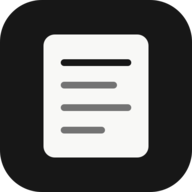
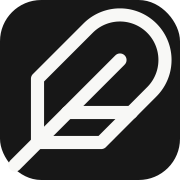
Add files via upload

diff --git a/src/styles/responsive.css b/src/styles/responsive.css
@@ -193,11 +193,21 @@
     box-shadow: none;
   }
   .markdown-editor { width: 100%; min-height: calc(100dvh - 310px); }
-  .control-strip { width: calc(100% - 20px); justify-content: space-between; }
-  .control-button { min-width: 44px; padding: 0 7px; }
+  .control-strip { width: calc(100% - 20px); justify-content: space-between; padding: 6px; }
+  .control-button { min-width: 52px; height: 52px; padding: 0 8px; font-size: 22px; }
+  .control-button.control-aa { font-size: 18px; }
+  .control-button.control-more { font-size: 20px; }
   .library-inner, .trash-inner { width: calc(100% - 28px); padding-top: calc(18px + env(safe-area-inset-top)); }
-  .library-row { grid-template-columns: minmax(0, 1fr) auto; column-gap: 10px; padding: 15px 1px 14px; }
-  .library-modified { font-size: 9px; }
+  .segmented { padding: 4px; }
+  .segmented button { min-height: 42px; padding: 0 12px; font-size: 18px; }
+  .library-row { grid-template-columns: minmax(0, 1fr) auto; column-gap: 10px; row-gap: 7px; padding: 19px 2px 18px; }
+  .library-title { font-size: 18px; line-height: 1.3; }
+  .library-preview { font-size: 16px; line-height: 1.45; }
+  .library-tags .tag-chip { min-height: 29px; padding: 4px 10px; font-size: 15px; }
+  .library-modified { font-size: 14px; }
+  .library-star { font-size: 15px; }
+  .tag-filter-title { font-size: 17px; }
+  .search-input { height: 46px; font-size: 16px; }
   .sheet-backdrop { padding: 0; align-items: end; }
   .sheet { width: 100%; max-height: 78dvh; border-radius: 18px 18px 0 0; border-left: 0; border-right: 0; border-bottom: 0; }
   .font-grid { grid-template-columns: 1fr; }

diff --git a/src/styles/app.css b/src/styles/app.css
@@ -260,11 +260,18 @@ button:focus-visible, input:focus-visible, select:focus-visible {
 .editor-line-text.is-editing { color: var(--text); }
 .bullet-marker { color: var(--faint); text-align: center; user-select: none; }
 .editor-line--bullet:focus-within .bullet-marker { visibility: hidden; }
+.todo-check-slot {
+  width: 25px;
+  height: calc(var(--editor-size) * 1.66);
+  display: flex;
+  align-items: center;
+  justify-content: center;
+}
 .todo-check {
   appearance: none;
   width: 17px;
   height: 17px;
-  margin: .31em 0 0;
+  margin: 0;
   border: 1.25px solid var(--muted);
   border-radius: 4px;
   background: transparent;
@@ -638,6 +645,18 @@ button:focus-visible, input:focus-visible, select:focus-visible {
 }
 .shortcut-restore { margin-top: 4px; color: var(--muted); }
 
+.brand-lockup {
+  display: inline-flex;
+  align-items: center;
+  gap: 8px;
+}
+.brand-feather {
+  width: 18px;
+  height: 18px;
+  display: block;
+  flex: 0 0 auto;
+}
+
 /* Authentication */
 .auth-screen {
   min-height: 100dvh;
@@ -656,6 +675,7 @@ button:focus-visible, input:focus-visible, select:focus-visible {
   box-shadow: var(--paper-shadow);
 }
 .auth-wordmark { font: 600 15px/1 var(--ui-font); letter-spacing: .01em; margin-bottom: 44px; }
+.auth-wordmark .brand-feather { width: 20px; height: 20px; }
 .auth-title { margin: 0 0 10px; font: 600 24px/1.2 var(--ui-font); }
 .auth-copy { margin: 0 0 24px; color: var(--muted); font: 400 14px/1.55 var(--ui-font); }
 .auth-form { display: grid; gap: 12px; }

diff --git a/tests/unit/desktopWorkspaceStyles.test.js b/tests/unit/desktopWorkspaceStyles.test.js
@@ -124,3 +124,13 @@ test('metadata controls avoid native browser title tooltips', () => {
   assert.ok(metaBlock, 'metadata strip markup is present');
   assert.doesNotMatch(metaBlock[0], /title=/);
 });
+
+test('Revision 1 gives iPhone library and toolbar typography true mobile sizes', () => {
+  assert.match(responsive, /@media \(max-width: 719px\)[\s\S]*?\.segmented button\s*\{[^}]*min-height:\s*42px[^}]*font-size:\s*18px/);
+  assert.match(responsive, /@media \(max-width: 719px\)[\s\S]*?\.library-title\s*\{[^}]*font-size:\s*18px/);
+  assert.match(responsive, /@media \(max-width: 719px\)[\s\S]*?\.library-preview\s*\{[^}]*font-size:\s*16px/);
+  assert.match(responsive, /@media \(max-width: 719px\)[\s\S]*?\.library-tags \.tag-chip\s*\{[^}]*font-size:\s*15px/);
+  assert.match(responsive, /@media \(max-width: 719px\)[\s\S]*?\.library-modified\s*\{[^}]*font-size:\s*14px/);
+  assert.match(responsive, /@media \(max-width: 719px\)[\s\S]*?\.control-button\s*\{[^}]*min-width:\s*52px[^}]*height:\s*52px[^}]*font-size:\s*22px/);
+  assert.match(responsive, /@media \(max-width: 719px\)[\s\S]*?\.control-button\.control-aa\s*\{[^}]*font-size:\s*18px/);
+});

diff --git a/src/ui/editorView.js b/src/ui/editorView.js
@@ -1,6 +1,7 @@
 import { mountMarkdownEditor } from '../editor/markdownEditor.js';
 import { makeLibraryItem } from '../domain/libraryItem.js';
 import { EDITOR_FONTS } from './appearanceSheet.js';
+import { featherIconMarkup } from './brandIcon.js';
 
 function renderTags(container, tags = []) {
   container.replaceChildren(...tags.map(tag => {
@@ -72,7 +73,7 @@ export function renderEditorView(root, {
     <main class="editor-screen desktop-workspace${sidebarCollapsed ? ' is-sidebar-collapsed' : ''}" data-testid="editor-screen">
       <aside class="desktop-sidebar" aria-label="Snippets">
         <div class="desktop-sidebar-head">
-          <span>Snippets</span>
+          <span class="brand-lockup">${featherIconMarkup('brand-feather')}<span>Snippets</span></span>
           <button class="quiet-button desktop-new-button" data-action="new-sidebar" aria-label="New snippet" title="New snippet">＋</button>
         </div>
         <div class="desktop-sidebar-list"></div>

diff --git a/tests/unit/editorSurfaceStyles.test.js b/tests/unit/editorSurfaceStyles.test.js
@@ -20,3 +20,12 @@ test('completed todo remains struck through while its text has focus', () => {
   assert.ok(match, 'editing rule exists');
   assert.doesNotMatch(match[1], /text-decoration\s*:\s*none/);
 });
+
+test('todo checkbox is vertically centered against the first text line box', () => {
+  const editorSource = fs.readFileSync(new URL('../../src/editor/markdownEditor.js', import.meta.url), 'utf8');
+  assert.match(editorSource, /className\s*=\s*['"]todo-check-slot['"]/);
+  assert.match(css, /\.todo-check-slot\s*\{[\s\S]*?height:\s*calc\(var\(--editor-size\)\s*\*\s*1\.66\)[\s\S]*?display:\s*flex[\s\S]*?align-items:\s*center/);
+  const checkboxRule = css.match(/\.todo-check\s*\{([^}]*)\}/);
+  assert.ok(checkboxRule, 'todo checkbox rule exists');
+  assert.match(checkboxRule[1], /margin:\s*0/);
+});

diff --git a/tests/unit/productionAssets.test.js b/tests/unit/productionAssets.test.js
@@ -28,3 +28,15 @@ test('build copies production root assets and retains Supabase CDN import in sta
   assert.match(build, /bookmarklets\.html/);
   assert.match(build, /cdn\.jsdelivr\.net\/npm\/@supabase\/supabase-js@2/);
 });
+
+test('Revision 1 uses the Lucide Feather mark for app branding and install icons', async () => {
+  const icon = await text('assets/icon.svg');
+  const editor = await text('src/ui/editorView.js');
+  const auth = await text('src/auth/authView.js');
+  const brand = await text('src/ui/brandIcon.js');
+  assert.match(icon, /M20\.24 12\.24a6 6 0 0 0-8\.49-8\.49L5 10\.5V19h8\.5z/);
+  assert.match(icon, /x1="16"[^>]*x2="2"[^>]*y1="8"[^>]*y2="22"/);
+  assert.match(brand, /featherIconMarkup/);
+  assert.match(editor, /featherIconMarkup/);
+  assert.match(auth, /featherIconMarkup/);
+});

diff --git a/src/auth/authView.js b/src/auth/authView.js
@@ -1,3 +1,5 @@
+import { featherIconMarkup } from '../ui/brandIcon.js';
+
 function element(tag, className, text = '') {
   const node = document.createElement(tag);
   if (className) node.className = className;
@@ -15,7 +17,9 @@ export function renderAuthView(root, { onRequestCode, onVerify } = {}) {
     root.replaceChildren();
     const main = element('main', 'auth-screen');
     const panel = element('section', 'auth-panel');
-    panel.append(element('div', 'auth-wordmark', 'Snippets'));
+    const wordmark = element('div', 'auth-wordmark brand-lockup');
+    wordmark.innerHTML = `${featherIconMarkup('brand-feather')}<span>Snippets</span>`;
+    panel.append(wordmark);
 
     const title = element('h1', 'auth-title', mode === 'email' ? 'Sign in' : 'Check your email');
     panel.append(title);

diff --git a/src/editor/markdownEditor.js b/src/editor/markdownEditor.js
@@ -114,7 +114,10 @@ export function mountMarkdownEditor(host, { value = '', onChange = () => {}, fon
         render();
         notify();
       });
-      row.append(checkbox);
+      const checkSlot = document.createElement('span');
+      checkSlot.className = 'todo-check-slot';
+      checkSlot.append(checkbox);
+      row.append(checkSlot);
     } else if (display.type === 'bullet') {
       const bullet = document.createElement('span');
       bullet.className = 'bullet-marker';

diff --git a/src/ui/brandIcon.js b/src/ui/brandIcon.js
@@ -1,0 +1,3 @@
+export function featherIconMarkup(className = 'brand-feather') {
+  return `<svg class="${className}" viewBox="0 0 24 24" fill="none" stroke="currentColor" stroke-width="2" stroke-linecap="round" stroke-linejoin="round" aria-hidden="true" focusable="false"><path d="M20.24 12.24a6 6 0 0 0-8.49-8.49L5 10.5V19h8.5z"></path><line x1="16" x2="2" y1="8" y2="22"></line><line x1="17.5" x2="9" y1="15" y2="15"></line></svg>`;
+}

diff --git a/sw.js b/sw.js
@@ -1,4 +1,4 @@
-const CACHE = 'snippets-v1';
+const CACHE = 'snippets-r1';
 const CORE = [
   './', './index.html', './bookmarklets.html', './manifest.webmanifest',
   './assets/icon.svg', './assets/icon-192.png', './assets/icon-512.png', './assets/apple-touch-icon.png',
